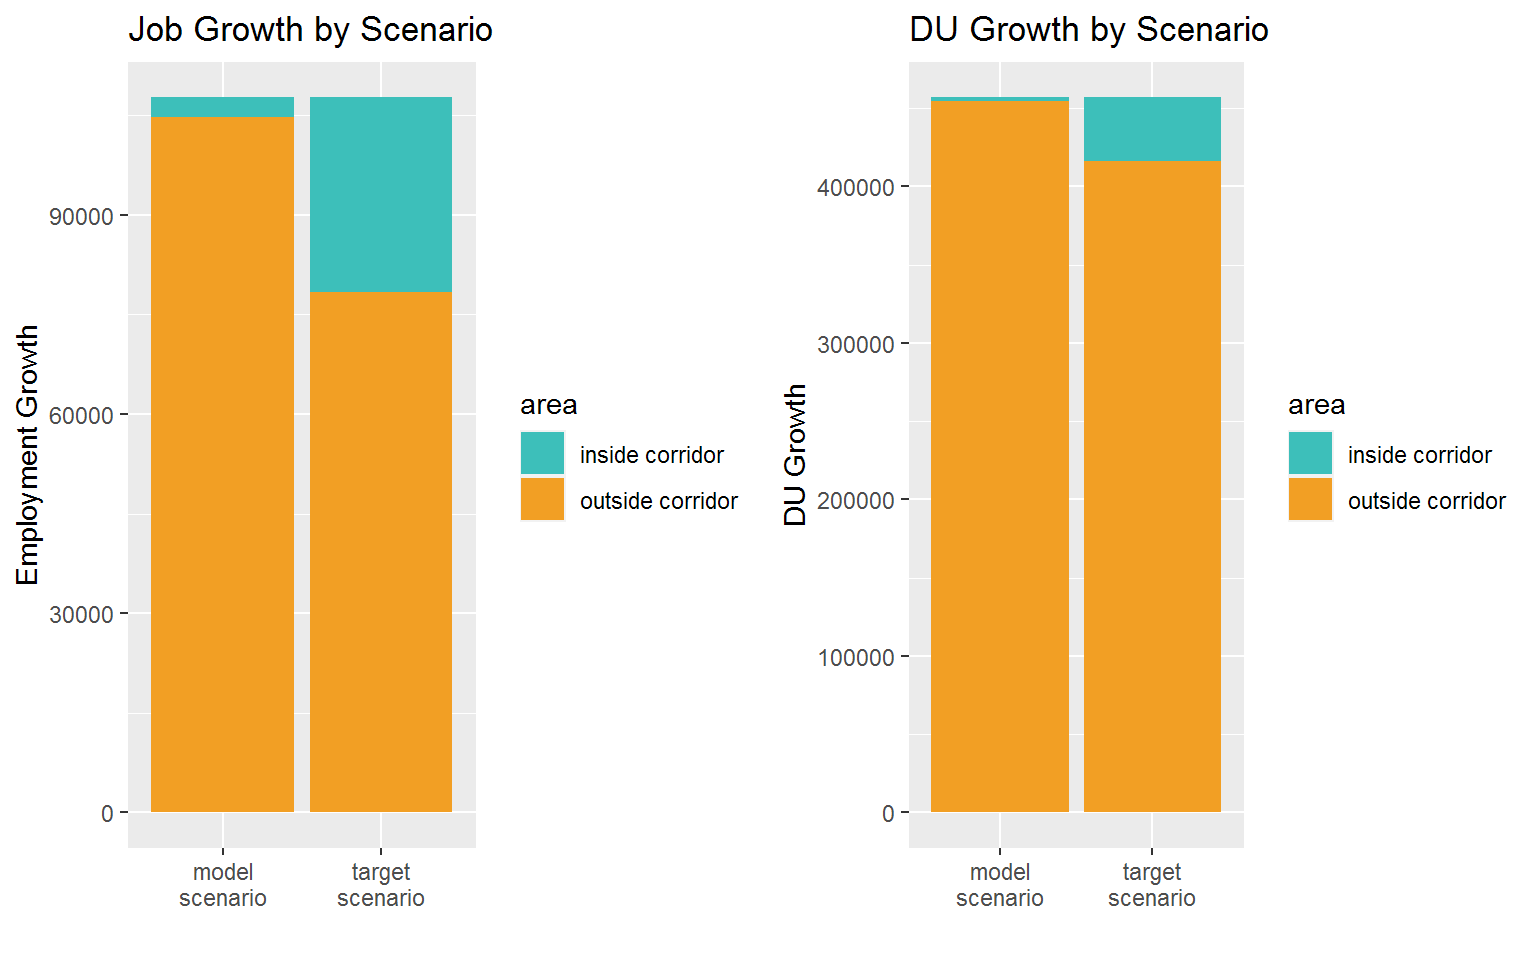
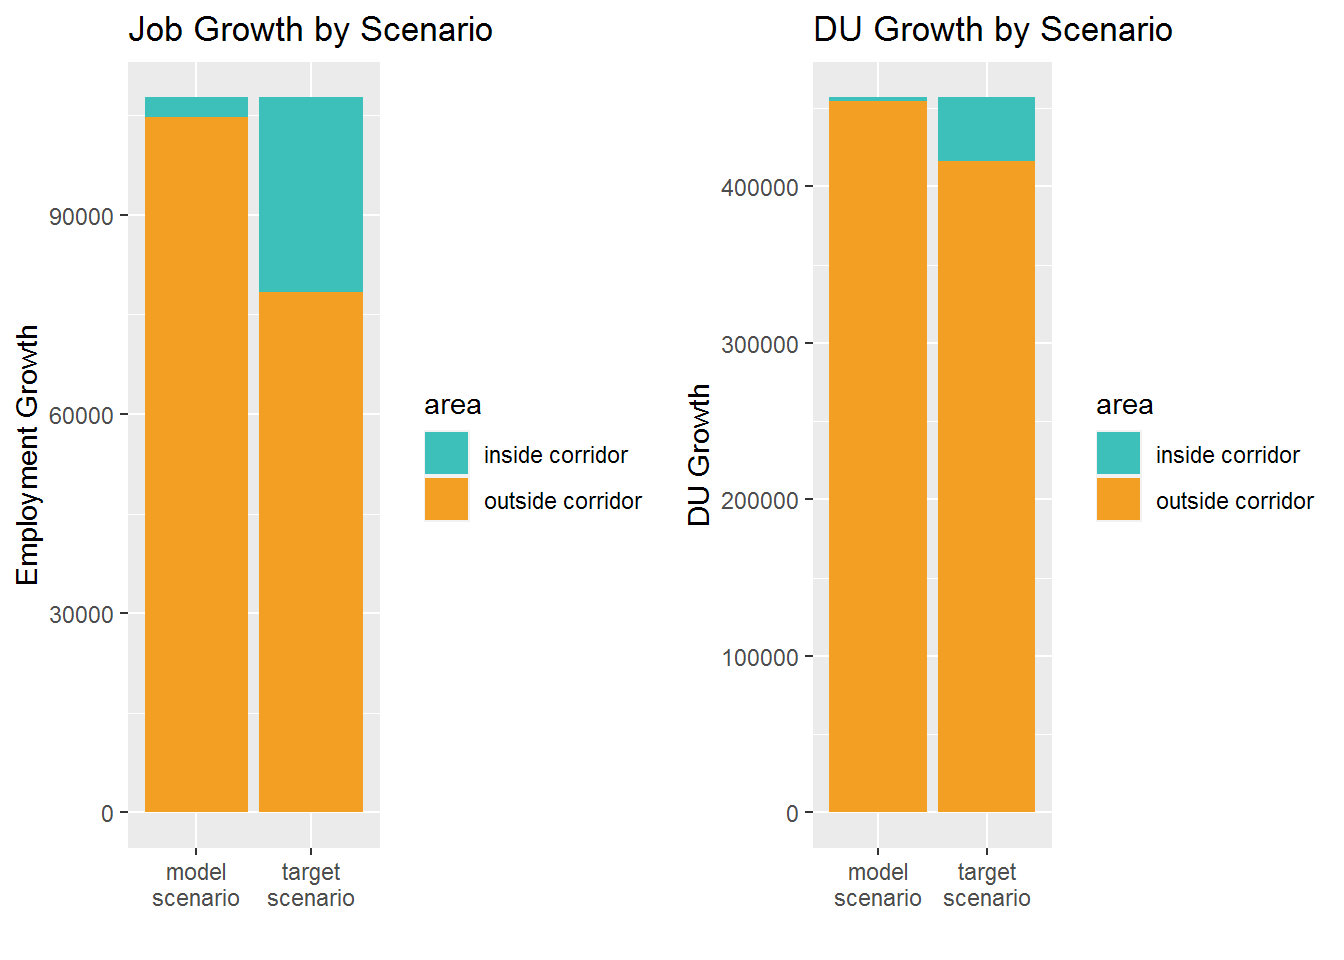
update thresholds

diff --git a/docs/regional_share.html b/docs/regional_share.html
@@ -390,7 +390,7 @@ div.tocify {
 
 
 <p>The following charts reveal the distribution of forecasted dwelling unit and employment growth between the corridor and non-corridor area under the 2045 land use scenario. They reveal the share of regional growth expected to occur inside and outside the corridor. A “target” scenario was developed to reveal what the growth distributions would look like if enough of the expected regional growth was concentrated in the corridor in order to reach minimum BRT density targets for jobs and dwelling units.</p>
-<p><img src="regional_share_files/figure-html/unnamed-chunk-1-1.png" width="768" /></p>
+<p><img src="regional_share_files/figure-html/unnamed-chunk-1-1.png" width="672" /></p>
 
 
 

diff --git a/docs/next_steps.html b/docs/next_steps.html
@@ -408,9 +408,19 @@ div.tocify {
 <li>Complete documentation on this site</li>
 <li>Improve graphics and potentially make them interactive</li>
 </ul>
+<div id="fdot-tod-guidebook-thresholds" class="section level2">
+<h2>FDOT TOD Guidebook Thresholds</h2>
 <div class="figure">
 <img src="NeighborhoodCenterBRT.JPG" alt="" />
 <p class="caption">TOD Guidebook Neighborhood Center Targets</p>
+</div>
+</div>
+<div id="tcrp-187-mean-values" class="section level2">
+<h2>TCRP 187 Mean Values</h2>
+<div class="figure">
+<img src="tcrp187.PNG" alt="" />
+<p class="caption">TCRP 187 Mean Values</p>
+</div>
 </div>
 </div>
 
